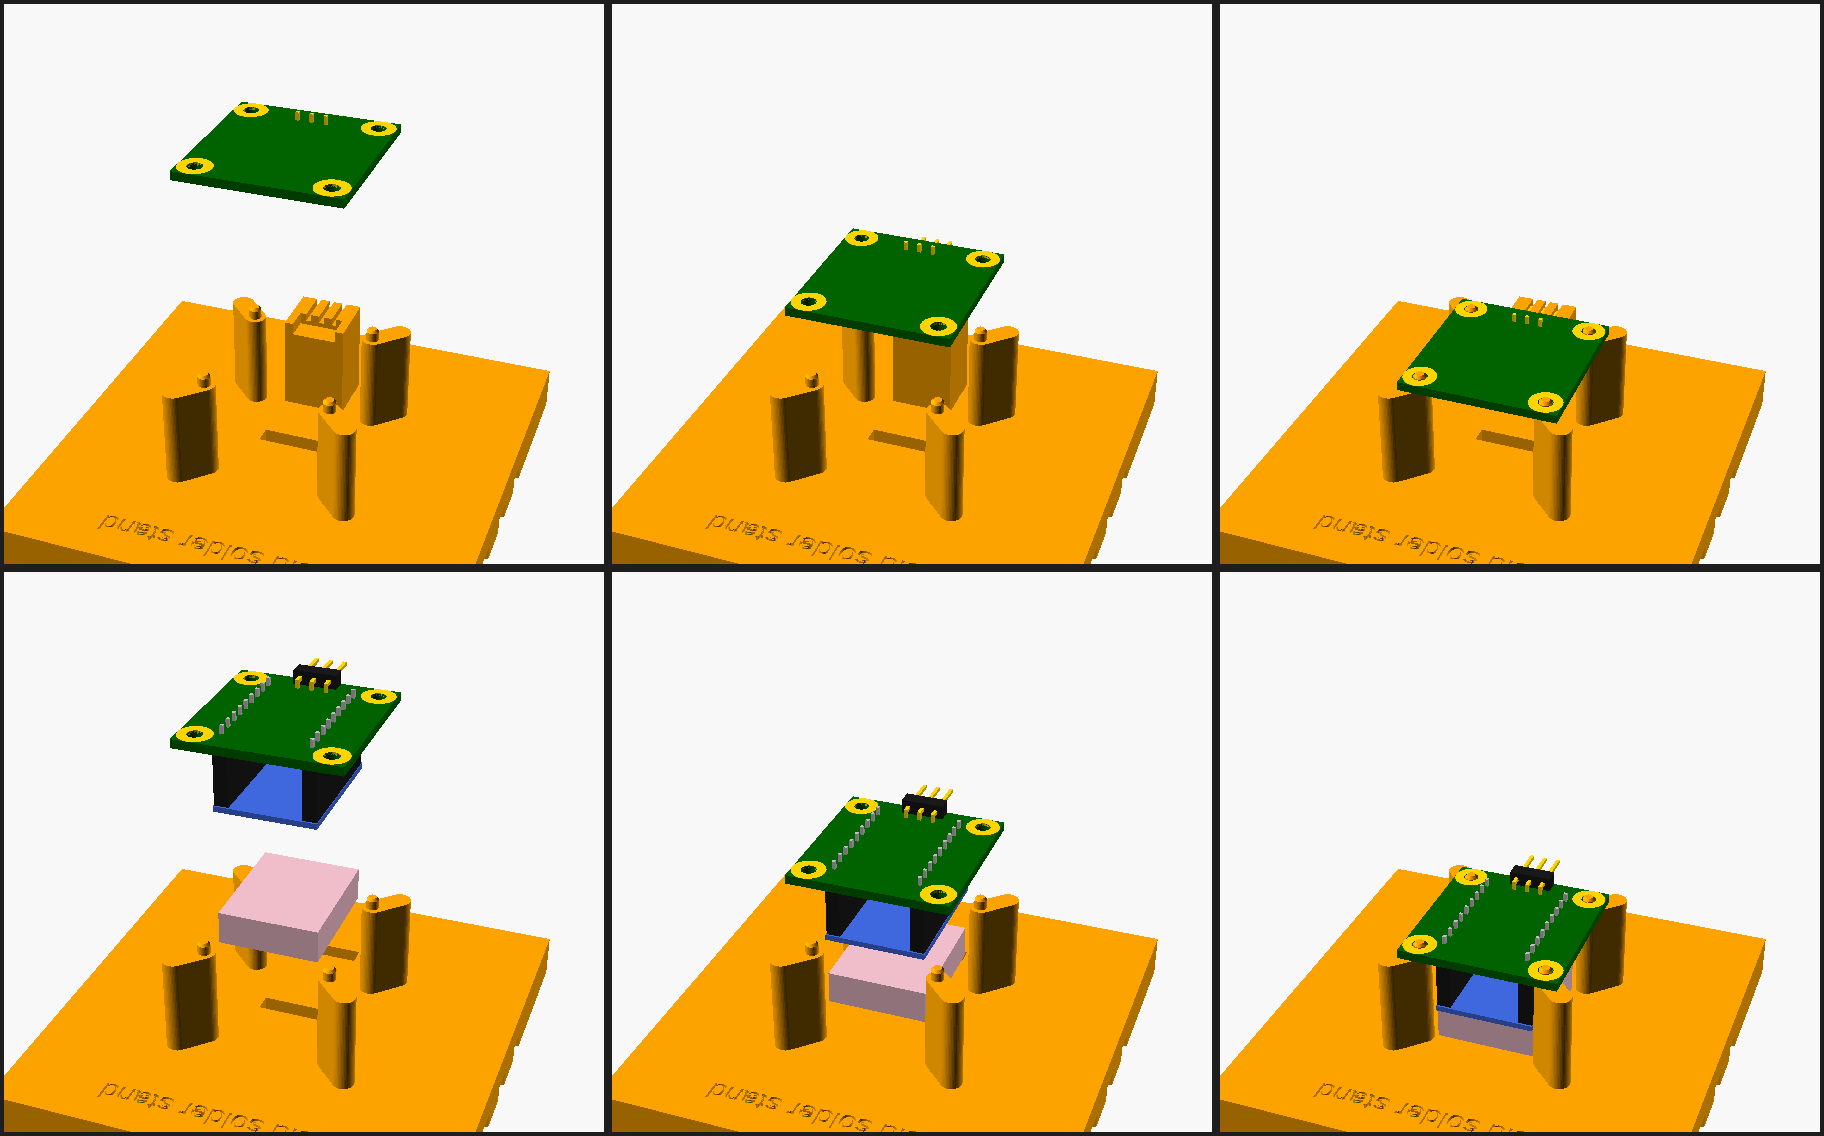
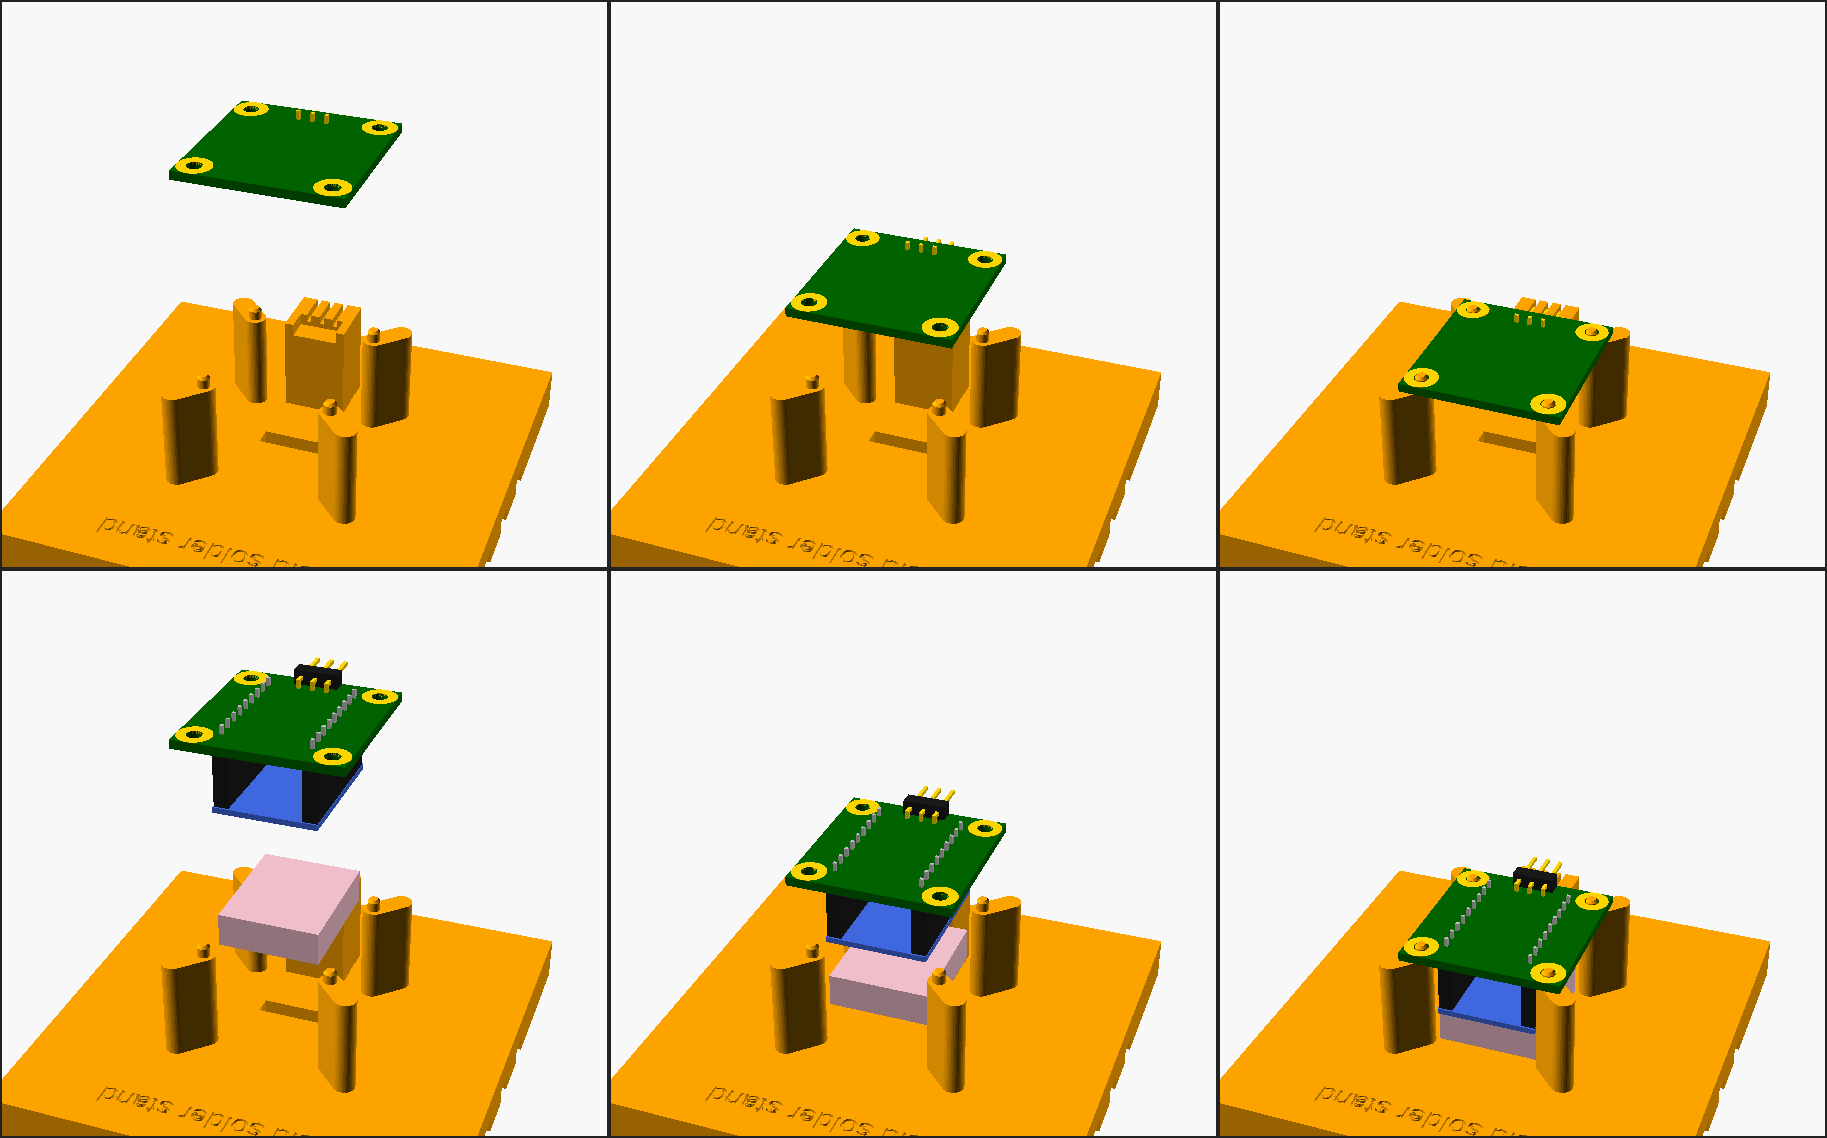
Solder stand: the insert stays in its socket in both passes (header comment, docs, steps picture)

diff --git a/docs/shield-pcb.md b/docs/shield-pcb.md
@@ -347,7 +347,7 @@ Also collected with all other open points in `roadmap.md`.
 - **To consider (2026-11-22, from the photo of the first working board): the servo connector deeper under the Zero.** On the rev A board the right-angle header J1 is at the USB-C end of the Zero, and from above the servo plug looks as if it stood against the USB-C connector. It does not get in its way: the servo plug sits on the shield (about 3 mm tall) and the Zero is 8.5 mm above the board on its sockets, with the USB-C connector higher still (the lower edge of a USB-C plug about 10 mm above the board), so the two plugs are on **different levels**. The way it is now, with the servo plug outside the board on the long pins of J1 that stick out of the edge, is the **intended variant** (the board stays at the size of the receiver shield and the plug does not need any room among the parts); the idea below is an alternative to it, not a repair. It makes it possible to move J1 **in the same plane, deeper into the board, under the Zero**: the servo plug then sits under the Zero's overhang, the USB-C cable goes in above it, and nothing gets in the way. Open points for a revision: the input protection (F1, R1, TVS1, D1, D2) sits in the strip before J1 at y 7 to 12 mm and would have to move, the plug needs about 8 mm along the row and a free path from the board edge to the header, the cable must still run out under the Zero to the receiver's S4, and the S V G labels (rev B) move with it: they go **to the edge of the board**, at the start of the plug's path, not beside the pins. With the plug pushed in they are hidden, but they tell **what the correct orientation of the cable is** before it is pushed in (S, V, G from left to right, the S wire, the one with the colour mark, on the S side; the square pad of the S pin is the first); the colour mark on the S wire stays. Other ways considered and not preferred: the connector to the side (the strips beside the Zero are about 5.5 mm and hold the mounting holes, LED1 and C1) or vertically up (it would still stand in front of the USB-C opening, and it adds height). Not decided; consider it for rev C or a rev B that is not ordered yet (rev B is only the silkscreen so far).
 - **Direction for the servo connector in a later revision (2026-11-22, not drawn yet): the holes of J1 moved inward.** The labels S V G stay at the edge of the board as they are (the plug seats about 5 mm behind them, so they are not covered). Only the **holes of J1** move: so far inward that the **whole plug is inside the outline of the board**, with the row of pins about **19 mm from the edge** (first thought 15 mm, the owner prefers 19; the long pins run towards the edge, the plug about 9 mm long covers them, so it ends about 8.5 mm behind the labels), and only the cable passes the edge. The plug is about 8.5 mm wide and the room between the socket strips of the Zero is 12.7 mm, so it goes between them; it is 3 mm tall under the Zero, which is 8.5 mm above the board. The price is the room: the plug covers the strip from y 8.5 to 17.5 mm and the body of J1 is at y 17.7 to 20.3 mm, so everything that sits there now moves: F1, R1, TVS1, D1, D2, C2, C6, C7, R6 and **the amplifier U1** (y 18.4 to 21.3 mm, x 9.7 to 12.6 mm, which the body of J1 would overlap). The input section and the amplifier area are laid out again; the S V G labels (rev B) keep their place. A sketch (not a KiCad change): `work/j1_deeper.png` on the owner's computer, not in the repository.
 - **Area test of that direction (2026-11-22): with the board and the parts as they are, it does not fit.** `tools/trial_place_j1.py` (data from `tools/extract_board_for_trial.py`) places the 22 movable parts again by simulated annealing, inside the outline, outside the sockets, the mounting holes, the fixed parts and a keepout for the plug (from the edge of the board to the body of J1, about 8.7 mm wide). It is a courtyard test only, without routing; calibrated with the real board (0 overlaps at the present J1 position, and the annealing finds 0 overlaps there too). Result for the row of J1 pins at 6 mm: 4 overlaps left; 8 and 10 mm: 9; 12 mm: 15; **19 mm: 23 to 26**. The reason: the keepout of the plug takes a strip 8.7 mm wide out of the 12.7 mm between the socket rows, and the 22 parts need about 141 mm² of courtyards. To make a deeper J1 possible something has to give: parts on the bottom side (JLCPCB can fit both sides, for a fee), smaller passives (0402) and fewer optional parts (the jumpers JP1, JP2 with R4, R5 and the three 33 Ohm resistors R6 to R8 can be dropped or made links, about 40 mm²), a bigger board (it would no longer be the size of the receiver shield), or a shallower J1. 19 mm would need all of that and the whole amplifier area laid out again.
-- **The servo connector on the underside of the board (2026-11-22, summary of the variants, drawn as sketches, not tried):** the holes of J1 stay where they are in rev A (x 12.01 to 17.09 mm, y 4.2 mm), so the variants work **on the boards of rev A** without a change of the board; only the header is pushed in from the **bottom** and soldered from the top (in a separate step, the stand of today solders from the bottom). (a) **Flipped, the pins pointing out:** the body and the plug are under the board at the edge, the plug mostly outside the outline, the cable leaves under the board; the plug seen from below has the yellow wire (S) on the right. (b) **Flipped and turned by 180 degrees, the pins pointing in:** the body is on the inner side of the row of holes (y 5.7 to 8.4 mm), the plug is **entirely under the board** (y 8.5 to about 16 mm), nothing passes the edge, and the cable runs on under the board and leaves sideways or at the far end. The top side does not change in either case (the area test above does not apply: the underside has only the test pads at the bottom edge). It needs **about 5 mm of room under the board**; the placement in the model gives it, as the original CyberBrick modules are also built in layers with the openings in the top one. **The solder stand** (`hardware/solder_stand/`): J3 and J4 are soldered as before (board face down, the Zero in the pocket). J1 is soldered **first, in a separate pass with the board lying top side up on the posts**, so that its underside rests on the stand: both variants use **one loose insert** (`part = "j1_insert"`, printed on its own, lying on its back): a ledge under the body of J1, guides at both ends of the body, a comb with a slot for each long pin, and a peg as wide as the insert, flush with its back. The base has **two sockets**, mirror images about the row of J1's holes: in socket A (outside the board edge) the insert serves J1 with the pins out (variant a), in socket B, with the insert **turned by 180 degrees**, J1 turned by 180 degrees with the pins in ((b)). J1 is always on the underside, so the insert is used only in the first pass (J1, board top side up, without the foam) and **taken out before the second pass** (J3 and J4), because the Zero hangs in its place. After J1 is soldered the board is turned over and the sockets J3 and J4 are soldered face down as before. **The third iteration of the stand (the base with the two sockets and the loose insert, rubber band round the board and the stand) was printed and works (2026-11-23), tried with J1 on the underside of the board (the board top side up).** In use the pins of J1 have to be **held in place by hand** first and only then is the board put into the stand.
+- **The servo connector on the underside of the board (2026-11-22, summary of the variants, drawn as sketches, not tried):** the holes of J1 stay where they are in rev A (x 12.01 to 17.09 mm, y 4.2 mm), so the variants work **on the boards of rev A** without a change of the board; only the header is pushed in from the **bottom** and soldered from the top (in a separate step, the stand of today solders from the bottom). (a) **Flipped, the pins pointing out:** the body and the plug are under the board at the edge, the plug mostly outside the outline, the cable leaves under the board; the plug seen from below has the yellow wire (S) on the right. (b) **Flipped and turned by 180 degrees, the pins pointing in:** the body is on the inner side of the row of holes (y 5.7 to 8.4 mm), the plug is **entirely under the board** (y 8.5 to about 16 mm), nothing passes the edge, and the cable runs on under the board and leaves sideways or at the far end. The top side does not change in either case (the area test above does not apply: the underside has only the test pads at the bottom edge). It needs **about 5 mm of room under the board**; the placement in the model gives it, as the original CyberBrick modules are also built in layers with the openings in the top one. **The solder stand** (`hardware/solder_stand/`): J3 and J4 are soldered as before (board face down, the Zero in the pocket). J1 is soldered **first, in a separate pass with the board lying top side up on the posts**, so that its underside rests on the stand: both variants use **one loose insert** (`part = "j1_insert"`, printed on its own, lying on its back): a ledge under the body of J1, guides at both ends of the body, a comb with a slot for each long pin, and a peg as wide as the insert, flush with its back. The base has **two sockets**, mirror images about the row of J1's holes: in socket A (outside the board edge) the insert serves J1 with the pins out (variant a), in socket B, with the insert **turned by 180 degrees**, J1 turned by 180 degrees with the pins in ((b)). J1 is always on the underside, so the insert **stays in its socket in both passes** (first J1, board top side up, without the foam, then J3 and J4). After J1 is soldered the board is turned over and the sockets J3 and J4 are soldered face down as before. **The third iteration of the stand (the base with the two sockets and the loose insert, rubber band round the board and the stand) was printed and works (2026-11-23), tried with J1 on the underside of the board (the board top side up).** In use the pins of J1 have to be **held in place by hand** first and only then is the board put into the stand.
 - **Marking the USB side of the Zero (2026-11-22, an idea for the silkscreen):** instead of J3 and J4 (the names of the socket strips, which tell nothing to the user) write **USB** on the board at the end where the Zero's USB-C connector is, so that the Zero is fitted the right way round without counting pins. The square pad of pin 1 stays. Not done on rev B yet.
 - **To think about (noted 2026-11-15): holding the board in the solder stand.** The foam under the Zero pushes the board up, so today only its own weight and the four locating pins keep it down. For one board: screws M2.5 through two opposite corners (head 4.5 mm fits the 6 mm copper ring), or just hold it by hand until the first pins are soldered. For a series screws are too slow: a hinged lid with foam and a printed snap latch, or fitting the sockets at JLCPCB (see above) so that no stand is needed. Rubber bands (idea of 2026-11-22): two bands along the strips beside the board, round the whole stand. **The stand has the grooves for them (2026-11-22):** the base is 8 mm thick (was 4) and has a groove 4.5 mm wide and 3 mm deep in its underside both ways, three each way (the two along the long axis at the strips beside the board and two across at the rows of the mounting holes, and one in the middle between each pair), so a band sits in a groove and cannot slip. Tried with the printed stand on 2026-11-23: it holds the board. **Print setting: Bridge direction 45 degrees** (Bambu Studio, Advanced; the default is automatic), because of the grooves for the rubber bands: they run both ways under the base, and the layers over them bridge at 45 degrees across both.
 - **Option, to be considered (noted 2026-11-15): low sockets for J3/J4.** LaskaKit sells a 1x9 female strip with a 3.5 mm body (`LA217087H`, 0.24 EUR, 2.54 mm pitch, holes 1.02 mm, tails 2.6 mm; https://www.laskakit.cz/en/dutinkova-lista-2-54-mm-nizka-3-5mm-jednorada-prima/). Same footprint as the 8.5 mm strip, so no board change; the stack would be lower. Open points: the Zero-M's pins are probably longer (about 6 mm) than the 3.5 mm body, so the Zero would grip only on the contacts; measure the pins and try one pair on the prototype first; `hardware/solder_stand/` assumes the tall strips and would need a new pocket depth. A try, not a must. **Update 2026-11-21:** after seeing the rev A board with the Zero stacked on the tall sockets (side photo), the project owner wants lower sockets as a goal for rev B, at the very least; first measure the Zero's pin length and try a pair on a rev A board. Measured 2026-11-21: the Zero's pins are about 6 mm long (5.95 to 6.2 measured), from the underside of the yellow plastic of its pin header to the tip (side photo from the same day). In a 3.5 mm strip they would bottom out on the board, leaving the plastic about 2.5 to 2.7 mm above the strip, so the saving is about 2.5 mm, not 5 mm; to be confirmed with a real pair. **Recommendation (2026-11-21): try the LaskaKit 3.5 mm strip `LA217087H` first.** With 6 mm pins the Zero's underside would be at about 6 mm (3.5 mm body + 2.5 mm of plastic left above it) instead of 8.5 mm, which still clears the tallest part under it (J2, 2.9 mm); the Zero is held by the contacts only, so check that it does not tilt. A strip of about 5.5 to 6 mm would let the plastic seat, but none has been found or checked. **Decision 2026-11-21: for now we keep the 8.5 mm sockets and the Zero-M as they are.** The saving is only about 2.5 mm, the Zero's pins cannot be shortened, and a Zero without header (Waveshare ESP32-S3-Zero-N8R8, SKU 33879, not the 2 MB PSRAM base board) would be needed for shorter pins; reconsider if the space in the model turns out too tight.
